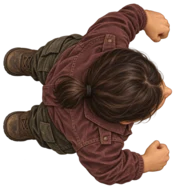
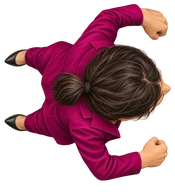
Dress the jungle VIP in a magenta pantsuit

diff --git a/index.html b/index.html
@@ -5,7 +5,7 @@
 <meta name="viewport" content="width=device-width, initial-scale=1, maximum-scale=1, user-scalable=no, viewport-fit=cover">
 <meta name="apple-mobile-web-app-capable" content="yes">
 <meta name="mobile-web-app-capable" content="yes">
-<title>こっそり戦車大作戦 2026.11.10.2252</title>
+<title>こっそり戦車大作戦 2026.11.10.2301</title>
 
 <style>
 .sound-control{display:flex;align-items:center;gap:7px;align-self:flex-start;width:auto;min-height:44px;margin:0;padding:0 8px 0 0;border:0;border-radius:0;background:transparent;text-align:left;color:#fff5cc;font:700 18px system-ui;cursor:pointer;touch-action:manipulation}
@@ -1021,7 +1021,7 @@ const cv=document.getElementById('c'),gm=gameCanvasContext(cv,{alpha:false}),oc=
 const canvasCreationDiagnostics={requested:MOBILE_READBACK_CANVAS,accepted:null};
 try{const attributes=gm.getContextAttributes?.();if(attributes&&typeof attributes.willReadFrequently==='boolean')canvasCreationDiagnostics.accepted=attributes.willReadFrequently;}catch(_){}
 window.tankCanvasDiagnostics=canvasCreationDiagnostics;
-const GAME_VERSION='2026.11.10.2252',FILE_CREATED_AT='2026/11/10 22:52',DRILL_ACTIVE=5,DRILL_RECHARGE=6,DIG_PREP_DURATION=.5;
+const GAME_VERSION='2026.11.10.2301',FILE_CREATED_AT='2026/11/10 23:01',DRILL_ACTIVE=5,DRILL_RECHARGE=6,DIG_PREP_DURATION=.5;
 // 表示・保存用のm換算。移動・評価は内部座標のまま扱う。
 const distanceMeters=distance=>Math.round(Math.max(0,distance)/10);
 let audioCtx=null,gameAudioOutput=null;
@@ -8858,7 +8858,7 @@ function reportGameError(error){
 <script src="js/intro.js?v=2026.10.31.0745"></script>
 <script src="js/unlocks.js?v=2026.10.31.2206"></script>
 <script src="js/enemy-bomber.js?v=2026.11.07.1957"></script>
-<script src="js/characters.js?v=2026.11.10.2252"></script>
+<script src="js/characters.js?v=2026.11.10.2301"></script>
 <script src="js/fallen-enemies.js?v=2026.11.03.0131"></script>
 <script src="js/enemy-dogs.js?v=2026.10.28.0713"></script>
 <script src="js/training.js?v=2026.10.31.0728"></script>
@@ -8868,7 +8868,7 @@ function reportGameError(error){
 <script src="js/jungle-hit-masks.js?v=2026.11.08.1710"></script>
 <script src="js/jungle-placement-masks.js?v=2026.11.08.2145"></script>
 <script src="js/jungle.js?v=2026.11.10.2223"></script>
-<script src="js/escape-test.js?v=2026.11.10.2252"></script>
+<script src="js/escape-test.js?v=2026.11.10.2301"></script>
 <script src="js/canyon.js?v=2026.11.10.2210"></script>
 <script src="js/vegetation.js?v=2026.11.08.1806"></script>
 <script src="js/laboratory.js?v=2026.10.31.2206"></script>
